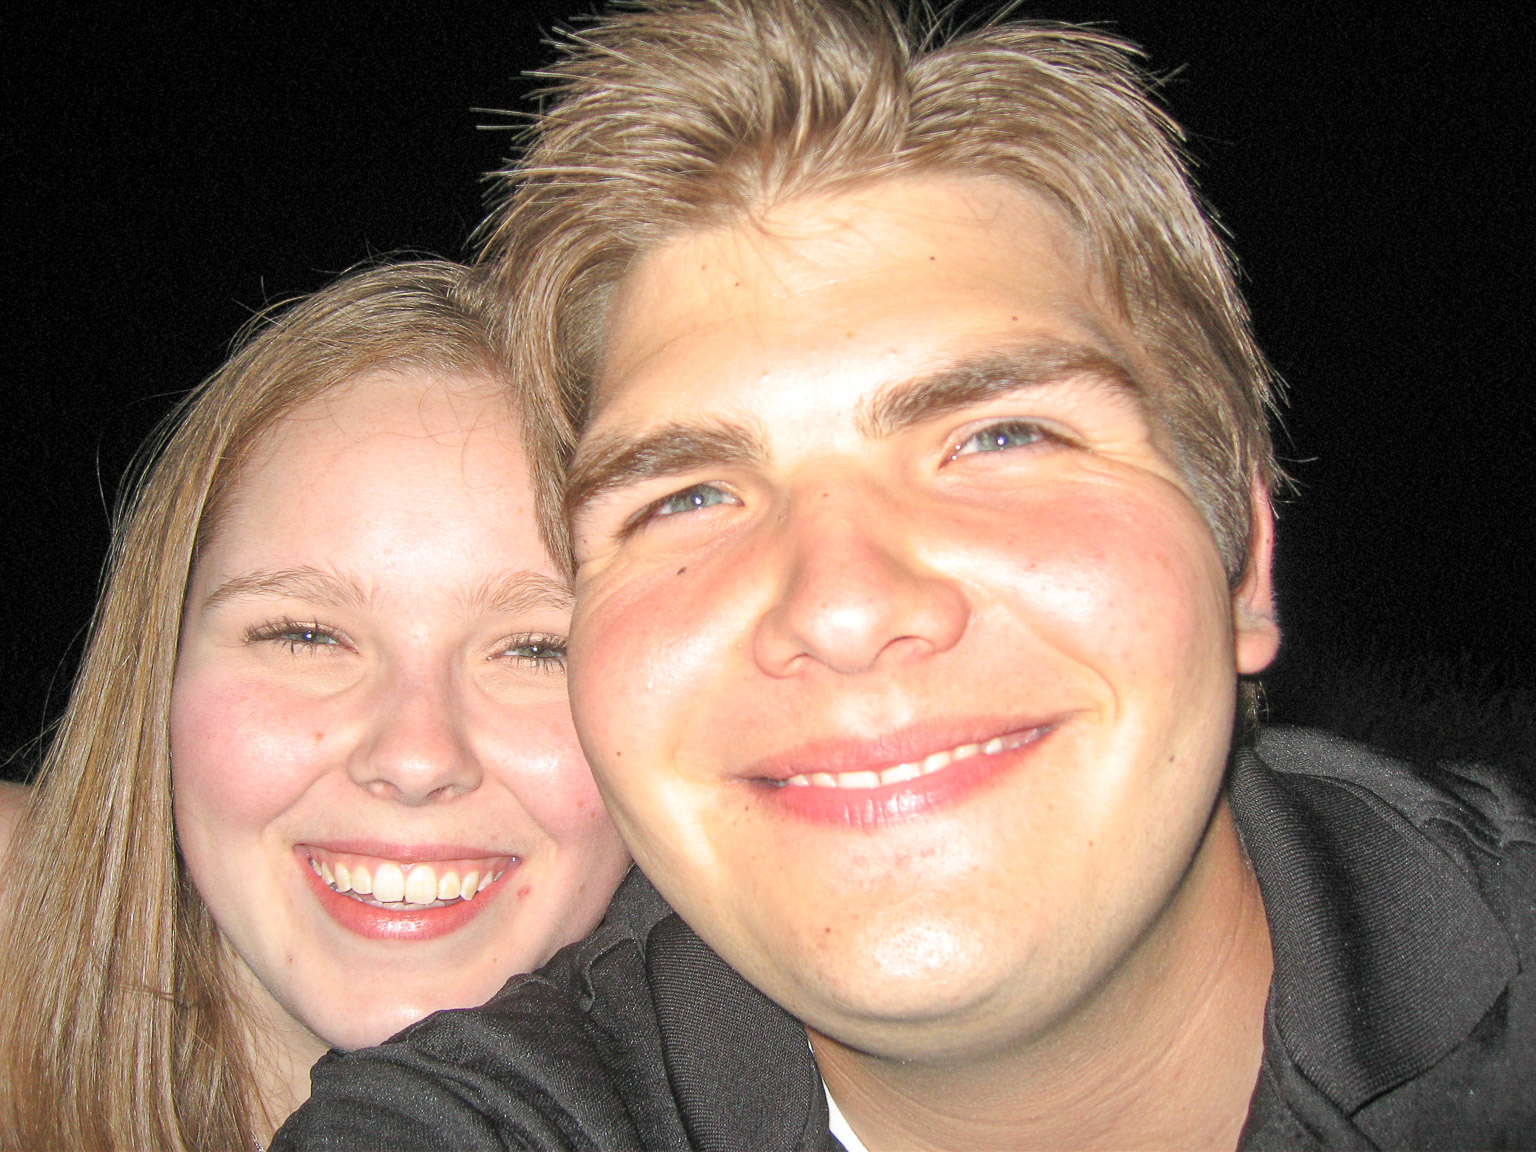
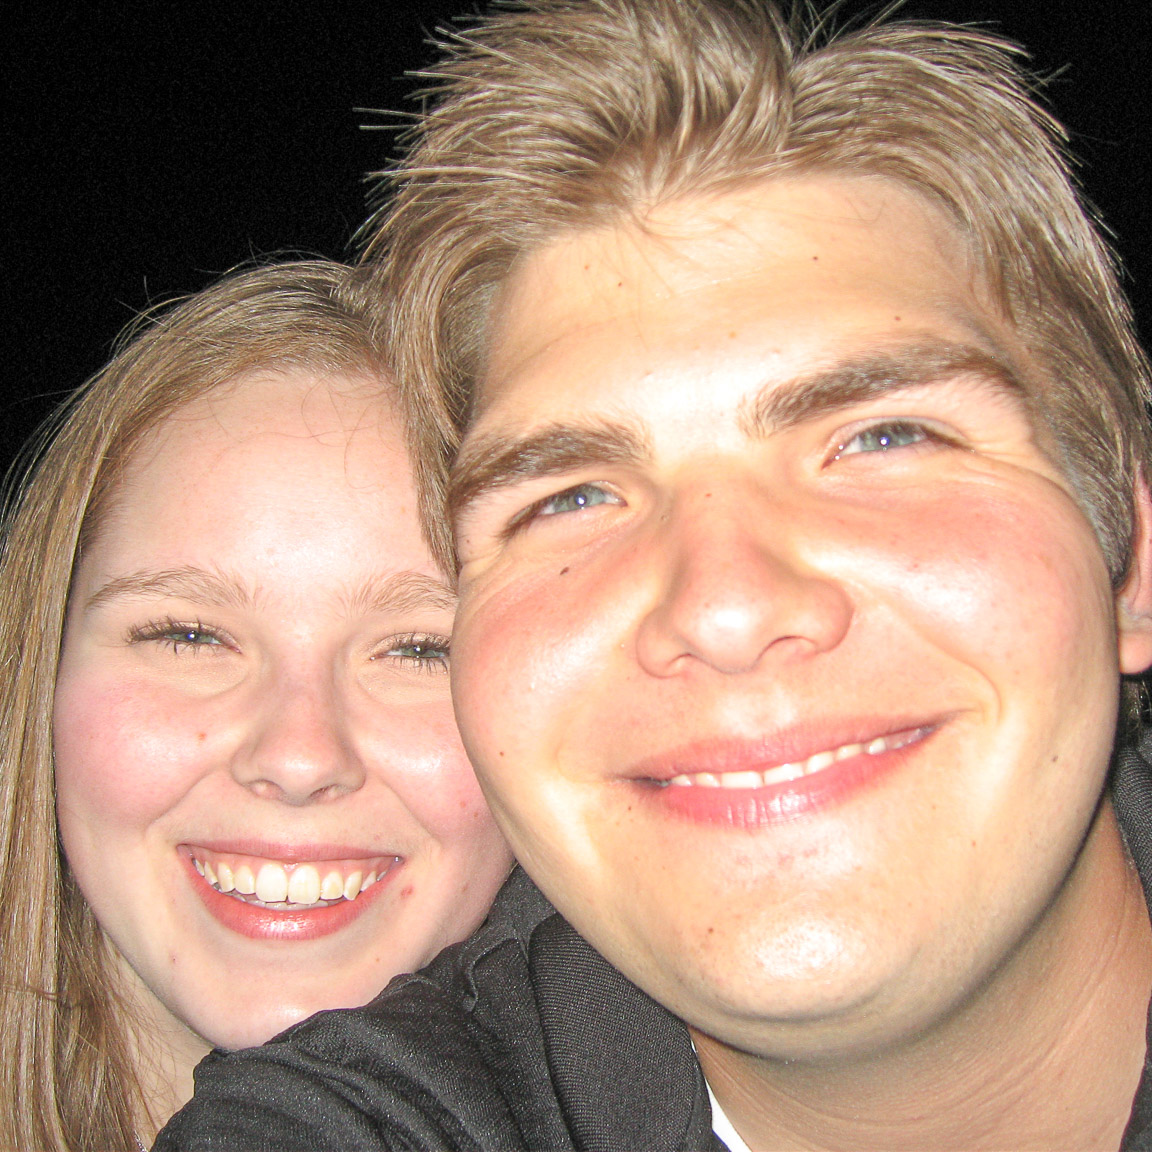
updated first date pic

diff --git a/clientlibs/index.html b/clientlibs/index.html
@@ -83,7 +83,7 @@
 						<span class="icon-bar"></span>
 						<span class="icon-bar"></span>
 					</button>
-					<a class="navbar-brand" href="index.html"><img src="images/logo.png" alt="Perfect Couple" class="img-responsive" /></a>
+					<a class="navbar-brand" href="index.html"><img src="images/logo2.png" alt="Perfect Couple" class="img-responsive" /></a>
 				</div>
 				<div class="navbar-collapse collapse">
 					<ul class="nav navbar-nav navbar-right">
@@ -168,9 +168,6 @@
 					<div class="col-sm-4" data-scroll-reveal="enter from the left after 0.25s">
 						<a href="post.html" class="hover-effect">
 							<img src="images/photos/love-story/weve-met.jpg" class="img-responsive img-circle" alt="Profile of Kelsey Larsen" />
-							<span class="img-circle">
-								<i class="fa fa-link fa-3x"></i>
-							</span>
 						</a>
 						<h6>We’ve met</h6>
 						<p>It was their senior year of High School in AP Physics. Matt had his eye on Kelsey, and told her one day that she looked like 'that girl from Grey's Anatomy' (Katherine Hiegl). She took it as a complement and thought nothing else of it. Two weeks before graduation, Mr. Kledzik, their AP Physics teacher told Kelsey that he thought she and Matt would be a good fit - this sparked Kelsey's interest and she sought Matt out to chat. The rest, as they say, is history. </p>
@@ -178,10 +175,7 @@
 					</div>
 					<div class="col-sm-4" data-scroll-reveal>
 						<a href="post.html" class="hover-effect">
-							<img src="http://placehold.it/370x370.jpg" class="img-responsive img-circle" alt="" />
-							<span class="img-circle">
-								<i class="fa fa-link fa-3x"></i>
-							</span>
+							<img src="images/photos/gallery/original/2008-05-31_21-41-00_00_0.jpg" class="img-responsive img-circle" alt="" />
 						</a>
 						<h6>First Date</h6>
 						<p>Matt and Kelsey has their first date on Memorial Day weekend, 2008. They went for a hike in Grant Nature Park in Centerville, and talked for hours about anything and everything. They sparked an interest and didn't want to stop talking, so they continued to Chipotle for lunch. Kelsey barely ate any of her burrito because she didn't want Matt to think she was a slob, and Matt thought Kelsey might be a little strange for not liking Chipotle! </p>
@@ -190,9 +184,6 @@
 					<div class="col-sm-4" data-scroll-reveal="enter from the right after 0.5s">
 						<a href="post.html" class="hover-effect">
 							<img src="images/photos/love-story/were-engaged.jpg" class="img-responsive img-circle" alt="" />
-							<span class="img-circle">
-								<i class="fa fa-link fa-3x"></i>
-							</span>
 						</a>
 						<h6>Engagement</h6>
 						<p>Matt gave Kelsey a hot air balloon ride for her birthday. When it came time to get in the balloon, Matt and Kelsey were told they might have to ride in two separate balloons because of the weather - Matt alerted to the coordinator that this simply wouldn't do! It worked out, and Matt and Kelsey got assigned to the Soccer Balloon. While up in the balloon, Matt asked Kelsey to marry him, and she said Yes! Matt then exuberantly shouted to the houses below that they had just gotten engaged. It was truly magical</p>
